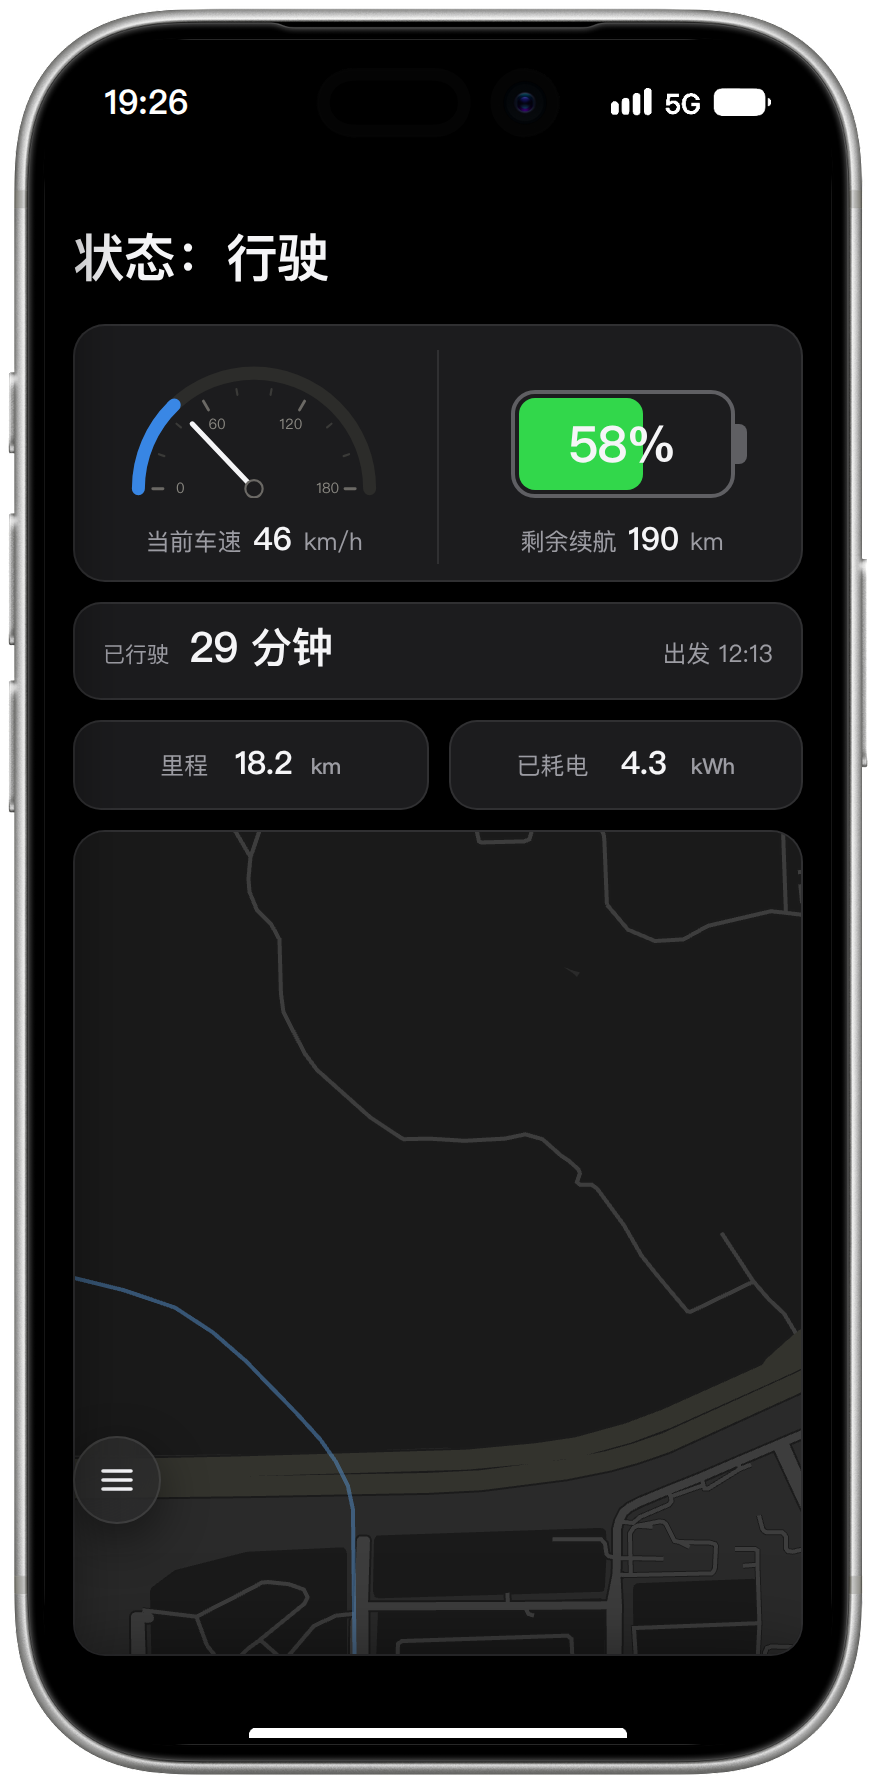
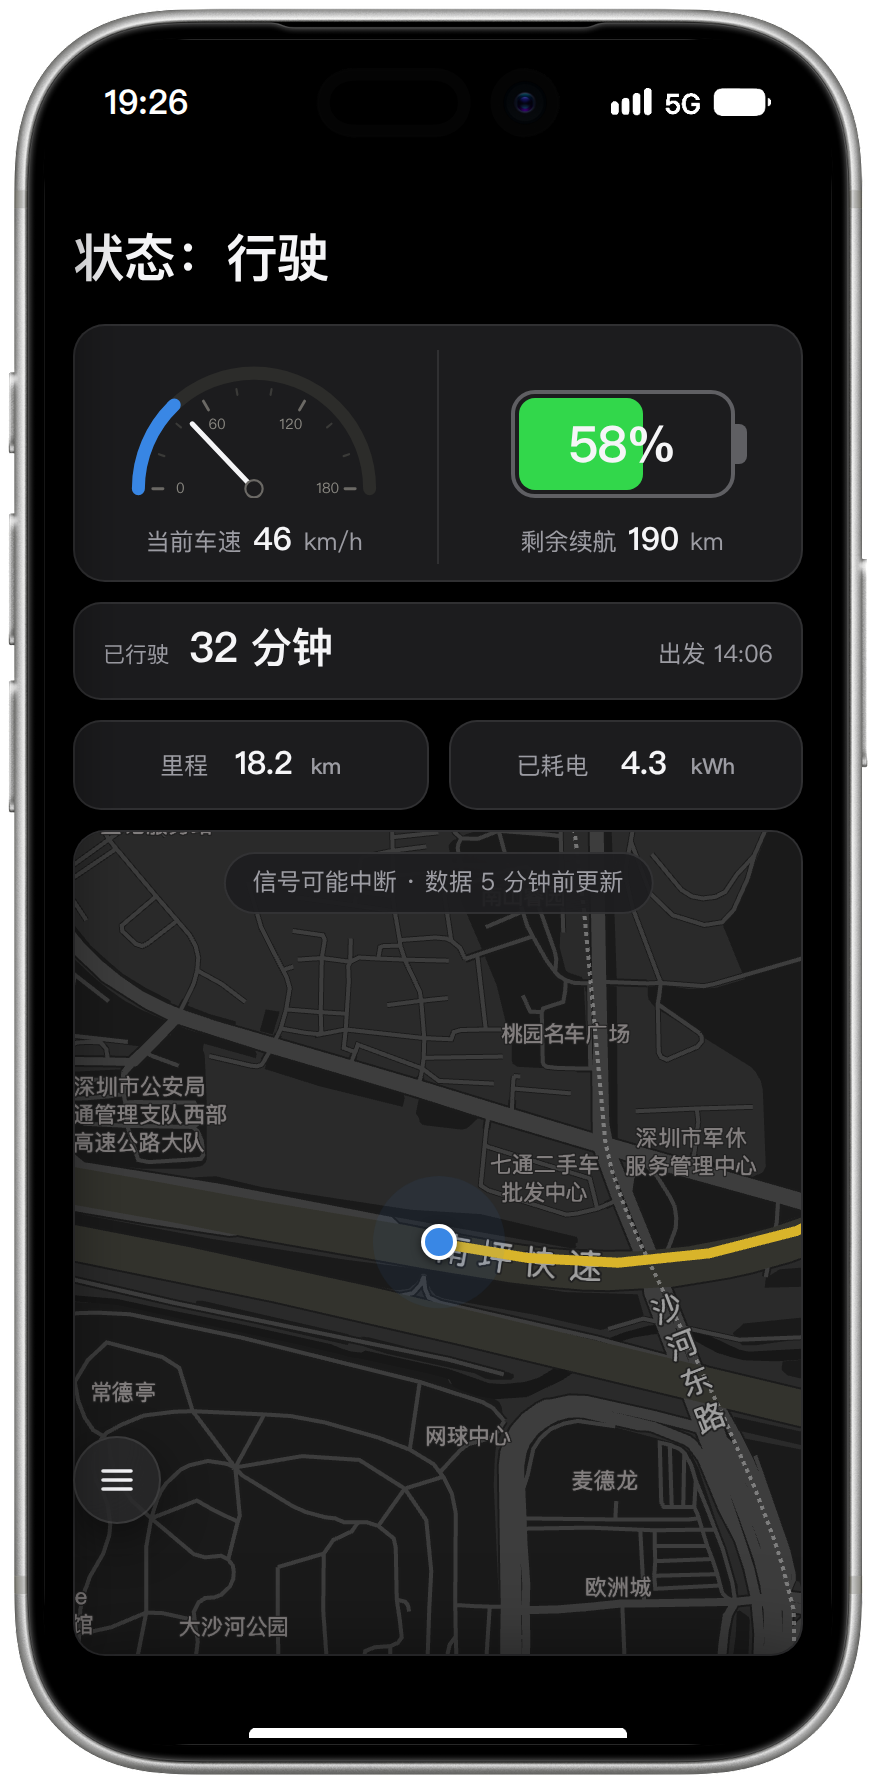
状态截图修复批: live 就绪锚点补「蓝点落在地图框内」守门 (发布批教训——只等速度数字时一次种子库瞬态让地图塌成底部窄条、无轨迹无蓝点也过锚, 坏图悄悄上线; 今后这种帧会 60s 大声失败而不是上图) + 状态截图重拍 (满幅地图 + 蓝点 + 速度色轨迹, ?v=3→4 破缓存)

diff --git a/shots/shoot.py b/shots/shoot.py
@@ -84,7 +84,9 @@ async def shoot_view(browser, key, ready_js, last_ms=1200):
 
 
 # 各视图数据就绪锚点 (等真实数据渲染完, 不是骨架出现):
-#   live        booting 占位收起 + 速度格有值
+#   live        booting 占位收起 + 速度格有值 + 蓝点落在地图框内
+#   (2026-10-13 发布批教训: 只等速度数字时, 一次种子库瞬态让地图塌成
+#    底部窄条、无轨迹无蓝点也过了锚, 坏图悄悄上线 —— 蓝点入框才算就绪)
 #   trips       列表首批卡片落 DOM
 #   tripstats   顶部里程累计 = 服务端汇总 (非空)
 #   groups      分组卡落 DOM
@@ -97,7 +99,12 @@ async def shoot_view(browser, key, ready_js, last_ms=1200):
 READY = {
     "live": "document.querySelector('#live') "
             "&& !document.querySelector('#live').hidden "
-            "&& document.querySelector('#lv-speed').textContent.trim() !== ''",
+            "&& document.querySelector('#lv-speed').textContent.trim() !== '' "
+            "&& (() => { const d = document.querySelector('.car-dot'), "
+            "m = document.querySelector('.map-wrap'); "
+            "if (!d || !m) return false; "
+            "const a = d.getBoundingClientRect(), b = m.getBoundingClientRect(); "
+            "return a.bottom > b.top && a.top < b.bottom; })()",
     "trips": "document.querySelectorAll('#list > *').length >= 5",
     "tripstats": "document.querySelector('#ts-km-total')"
                  ".textContent.trim() !== ''",

diff --git a/README.md b/README.md
@@ -25,7 +25,7 @@
 ## 1. ✨ 功能
 
 <p align="center">
-<a name="shot-live"><img src="docs/screenshot-live.png?v=3" width="280" alt="状态 · My Tesla (演示数据)"></a>
+<a name="shot-live"><img src="docs/screenshot-live.png?v=4" width="280" alt="状态 · My Tesla (演示数据)"></a>
 <br><b>状态</b> — 车开到哪、还剩多少电、还能跑多远, 打开即见; 行驶中蓝点实时跟车
 </p>
 
